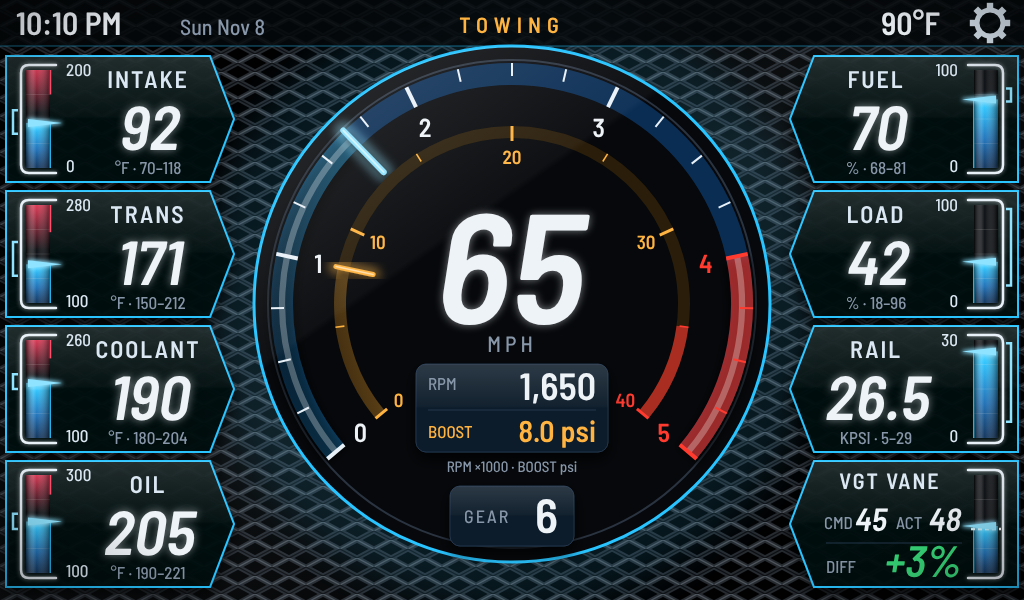
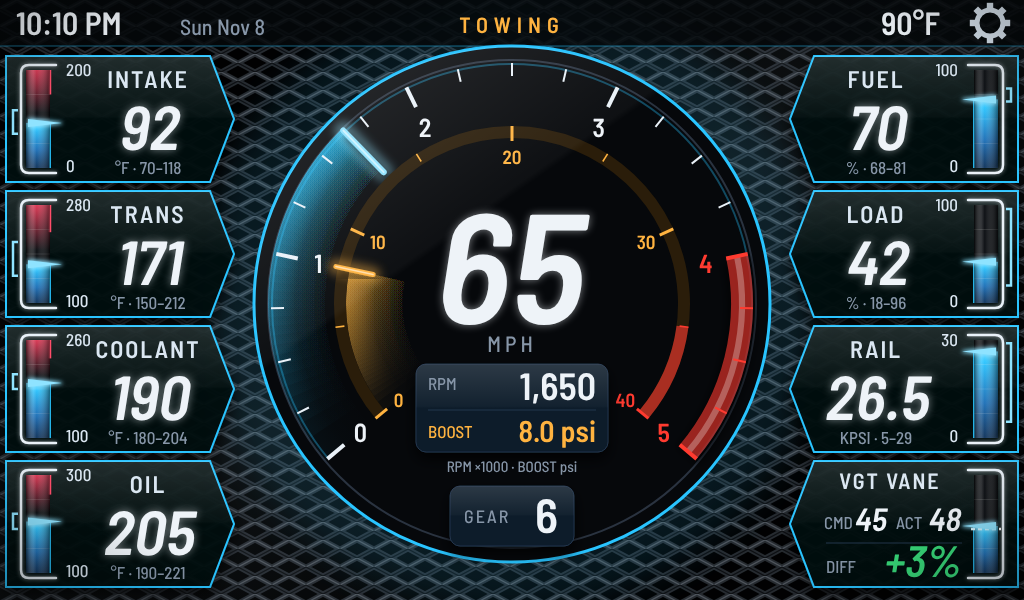
Mockups v2: P3 light trails behind RPM and boost needles, color picker, background setting
Claude-Session: https://claude.ai/code/session_01NB1fkpFcGY28RY4JZ8NWPC

Changed region(s): [[0.25, 0.09, 0.75, 0.78]]

diff --git a/docs/mockups/v2.html b/docs/mockups/v2.html
@@ -47,6 +47,7 @@ s+=`<defs>
 <linearGradient id="cw1" x1="0" y1="0" x2="1" y2="0"><stop offset="0" stop-color="#0b0d11"/><stop offset=".5" stop-color="#262c36"/><stop offset="1" stop-color="#0b0d11"/></linearGradient>
 <linearGradient id="cw2" x1="0" y1="0" x2="0" y2="1"><stop offset="0" stop-color="#090b0e"/><stop offset=".5" stop-color="#1c2129"/><stop offset="1" stop-color="#090b0e"/></linearGradient>
 <linearGradient id="sheen" x1="0" y1="0" x2="1" y2="1"><stop offset=".2" stop-color="#bfe6ff" stop-opacity="0"/><stop offset=".5" stop-color="#bfe6ff" stop-opacity=".10"/><stop offset=".8" stop-color="#bfe6ff" stop-opacity="0"/></linearGradient>
+<filter id="glowU" filterUnits="userSpaceOnUse" x="0" y="0" width="1024" height="600"><feGaussianBlur stdDeviation="5"/></filter>
 <filter id="glow" x="-50%" y="-50%" width="200%" height="200%"><feGaussianBlur stdDeviation="5"/></filter>
 <filter id="glow2" x="-50%" y="-50%" width="200%" height="200%"><feGaussianBlur stdDeviation="2"/></filter>
 <radialGradient id="hub" cx="40%" cy="35%" r="70%"><stop offset="0" stop-color="#9aa2ad"/><stop offset=".5" stop-color="#2b2f35"/><stop offset="1" stop-color="#08090a"/></radialGradient>
@@ -73,7 +74,7 @@ function scale(cx,cy,r,a0,sw,min,max,step,minor,o={}){let out='';const n=Math.ro
     if(maj&&o.lab!==false){const[lx,ly]=P(cx,cy,r-(o.lr||44),a);out+=T(lx,ly+(o.ly||0),o.ls||30,o.fmt?o.fmt(v):v,{c:red?C.red:(o.lc||C.text),db:'central',f:o.lf||'B5'})}}
   return `<g filter="url(#bloom)">${out}</g>`+out}
 function needle(cx,cy,r0,r1,a,col,w){const[x0,y0]=P(cx,cy,r0,a),[x1,y1]=P(cx,cy,r1,a);
-  return `<line x1="${n1(x0)}" y1="${n1(y0)}" x2="${n1(x1)}" y2="${n1(y1)}" stroke="${col}" stroke-width="${w*3}" stroke-linecap="round" opacity=".45" filter="url(#glow)"/>`+
+  return `<line x1="${n1(x0)}" y1="${n1(y0)}" x2="${n1(x1)}" y2="${n1(y1)}" stroke="${col}" stroke-width="${w*3}" stroke-linecap="round" opacity=".45" filter="url(#glowU)"/>`+
          `<line x1="${n1(x0)}" y1="${n1(y0)}" x2="${n1(x1)}" y2="${n1(y1)}" stroke="${col}" stroke-width="${w}" stroke-linecap="round" filter="url(#nshadow)"/>`+`<line x1="${n1(x0)}" y1="${n1(y0)}" x2="${n1(x1)}" y2="${n1(y1)}" stroke="#fff" stroke-opacity=".55" stroke-width="${w*.3}" stroke-linecap="round"/>`}
 function cneedle(cx,cy,r,a,col){const[tx,ty]=P(cx,cy,r,a),[bx1,by1]=P(cx,cy,7,a+90),[bx2,by2]=P(cx,cy,7,a-90),[tl,tly]=P(cx,cy,r*.18,a+180);
   return `<g filter="url(#nshadow)"><polygon points="${n1(tx)},${n1(ty)} ${n1(bx1)},${n1(by1)} ${n1(tl)},${n1(tly)}" fill="${col}"/><polygon points="${n1(tx)},${n1(ty)} ${n1(tl)},${n1(tly)} ${n1(bx2)},${n1(by2)}" fill="${col}"/><polygon points="${n1(tx)},${n1(ty)} ${n1(tl)},${n1(tly)} ${n1(bx2)},${n1(by2)}" fill="#000" fill-opacity=".35"/><line x1="${n1(tx)}" y1="${n1(ty)}" x2="${n1(tl)}" y2="${n1(tly)}" stroke="#fff" stroke-opacity=".45" stroke-width="1.2"/></g>`+
@@ -292,7 +293,10 @@ pages.premium_towing=()=>{const CX=512,CY=304,RD=258;
     orange:['#ff8a1e','#ffc48a','#c4560a','#5a2604','#ffab5c'],red:['#ff3b4f','#ff9aa5','#b0182a','#4d0912','#ff6b7a'],
     purple:['#a66bff','#d6bdff','#6b33c4','#2e1557','#c09bff'],white:['#e8eef5','#ffffff','#8c96a3','#353b43','#f4f8fb']};
   const SECS={amber:'#ffb340',cyan:'#29c4ff',green:'#2fe37a',orange:'#ff8a1e',purple:'#c09bff',white:'#e8eef5'};
-  const ACC=ACCS[q.get('acc')||'cyan'],SEC=SECS[q.get('sec')||'amber'],CY2=ACC[0];
+  const hx=(h,s,l)=>{s/=100;l/=100;const k=n=>(n+h/30)%12,a=s*Math.min(l,1-l),f=n=>l-a*Math.max(-1,Math.min(k(n)-3,9-k(n),1));return '#'+[0,8,4].map(n=>Math.round(f(n)*255).toString(16).padStart(2,'0')).join('')};
+  const fromHue=(h,l=58)=>[hx(h,95,l),hx(h,100,Math.min(l+22,92)),hx(h,85,l-18),hx(h,80,l-40),hx(h,100,l+10)];
+  const pa=q.get('acc')||'cyan',ps=q.get('sec')||'amber';
+  const ACC=/^h\d+/.test(pa)?fromHue(+pa.slice(1)):ACCS[pa],SEC=/^h\d+/.test(ps)?fromHue(+ps.slice(1))[0]:SECS[ps],CY2=ACC[0];
   const BGS={carbon:'url(#carbon)',expanded:'url(#xmetal)',diamond:'url(#dplate)',brushed:'url(#bal)',honeycomb:'url(#honey)',black:'#040506'};
   const bgk=q.get('bg')||'carbon';
   let o=`<rect width="1024" height="600" fill="${BGS[bgk]}"/>`+(bgk=='brushed'?'<rect width="1024" height="600" fill="url(#brushed)"/>':'')+
@@ -307,13 +311,19 @@ pages.premium_towing=()=>{const CX=512,CY=304,RD=258;
    o+=g+`<circle cx="${x}" cy="${y}" r="13" fill="none" stroke="#dbe7f2" stroke-width="5"/>`}
   o+=`<defs><linearGradient id="ofill" x1="0" y1="1" x2="1" y2="0"><stop offset="0" stop-color="${ACC[0]}" stop-opacity=".06"/><stop offset="1" stop-color="${ACC[0]}" stop-opacity=".32"/></linearGradient>
     <linearGradient id="ifill" x1="0" y1="1" x2="1" y2="0"><stop offset="0" stop-color="${SEC}" stop-opacity=".06"/><stop offset="1" stop-color="${SEC}" stop-opacity=".36"/></linearGradient></defs>`;
+  function trail(r0,r1,a0,a1,col,peak,id){let g=`<defs><radialGradient id="${id}" gradientUnits="userSpaceOnUse" cx="${CX}" cy="${CY}" r="${r1}"><stop offset="${(r0/r1).toFixed(3)}" stop-color="${col}" stop-opacity="0"/><stop offset="${((r0+(r1-r0)*.55)/r1).toFixed(3)}" stop-color="${col}" stop-opacity=".35"/><stop offset="1" stop-color="${col}" stop-opacity="1"/></radialGradient></defs>`;
+    const N=40;for(let i=0;i<N;i++){const t0=a0+(a1-a0)*Math.pow(i/N,.7),t1=a1,op=(peak*2.2/N).toFixed(3);
+      const[p0x,p0y]=P(CX,CY,r1,t0),[p1x,p1y]=P(CX,CY,r1,t1),[q1x,q1y]=P(CX,CY,r0,t1),[q0x,q0y]=P(CX,CY,r0,t0);
+      const lg=t1-t0>180?1:0;g+=`<path d="M${n1(p0x)},${n1(p0y)} A${r1},${r1} 0 ${lg} 1 ${n1(p1x)},${n1(p1y)} L${n1(q1x)},${n1(q1y)} A${r0},${r0} 0 ${lg} 0 ${n1(q0x)},${n1(q0y)} Z" fill="url(#${id})" opacity="${op}"/>`}
+    return g}
   // center disc
   o+=`<circle cx="${CX}" cy="${CY}" r="${RD}" fill="#06080b" stroke="${CY2}" stroke-width="3"/><circle cx="${CX}" cy="${CY}" r="${RD-14}" fill="none" stroke="#2a3340" stroke-width="2"/>`;
   const A0=140,SW=260;
+  // light trails behind both needles (drawn on the face, under the scales)
+  o+=trail(182,RD-14,A0,A0+SW*V.rpm/5000,ACC[0],.75,'trO')+trail(104,166,A0,A0+SW*V.boost/40,SEC,.7,'trI');
   // outer scale: RPM with a needle
   const RO=230,ar=v=>A0+SW*v/5;
-  o+=`<path d="${arc(CX,CY,RO,A0,A0+SW)}" stroke="${ACC[3]}" stroke-opacity=".7" stroke-width="22" fill="none"/>`;
-  o+=`<path d="${arc(CX,CY,RO,A0,ar(V.rpm/1000))}" stroke="url(#ofill)" stroke-width="22" fill="none"/>`;
+  o+=`<path d="${arc(CX,CY,RO+10,A0,A0+SW)}" stroke="${ACC[0]}" stroke-opacity=".35" stroke-width="2" fill="none"/>`;
   o+=`<path d="${arc(CX,CY,RO,ar(4),ar(5))}" stroke="${C.red}" stroke-width="22" fill="none" opacity=".6"/>`;
   for(let v=0;v<=5;v+=.25){const maj=v%1==0,[x1,y1]=P(CX,CY,RO+11,ar(v)),[x2,y2]=P(CX,CY,RO-(maj?11:2),ar(v));o+=`<line x1="${n1(x1)}" y1="${n1(y1)}" x2="${n1(x2)}" y2="${n1(y2)}" stroke="${v>=4?C.red:'#e9f1f8'}" stroke-width="${maj?4:2}"/>`}
   for(let v=0;v<=5;v++){const[x,y]=P(CX,CY,RO-32,ar(v));o+=T(x,y,26,v,{db:'central',c:v>=4?C.red:C.text,f:'C6'})}
@@ -321,7 +331,6 @@ pages.premium_towing=()=>{const CX=512,CY=304,RD=258;
   // inner scale: BOOST with its own needle
   const RI=172,ab=v=>A0+SW*v/40;
   o+=`<path d="${arc(CX,CY,RI,A0,A0+SW)}" stroke="#2a1d0a" stroke-width="12" fill="none"/>`;
-  o+=`<path d="${arc(CX,CY,RI,A0,ab(V.boost))}" stroke="url(#ifill)" stroke-width="12" fill="none"/>`;
   o+=`<path d="${arc(CX,CY,RI,ab(35),ab(40))}" stroke="${C.red}" stroke-width="12" fill="none" opacity=".6"/>`;
   for(let v=0;v<=40;v+=5){const maj=v%10==0,[x1,y1]=P(CX,CY,RI+6,ab(v)),[x2,y2]=P(CX,CY,RI-(maj?9:3),ab(v));o+=`<line x1="${n1(x1)}" y1="${n1(y1)}" x2="${n1(x2)}" y2="${n1(y2)}" stroke="${v>=35?C.red:SEC}" stroke-width="${maj?3:1.6}"/>`}
   for(let v=0;v<=40;v+=10){const[x,y]=P(CX,CY,RI-24,ab(v));o+=T(x,y,19,v,{db:'central',c:v>=35?C.red:SEC,f:'C6'})}
@@ -382,6 +391,21 @@ pages.premium_towing=()=>{const CX=512,CY=304,RD=258;
     o+=T(cx,y+32,24,lab,{f:'C6',c:'#dbe7f2',ls:2})+sk(cx,y+94,62,val,{c:hot?C.red:C.text})+T(cx,y+118,17,[u,rng&&rng[3]!=null?rng[3]+'–'+rng[4]:''].filter(Boolean).join('  ·  '),{c:C.dim,f:'C5'});
     if(rng)o+=rbar(bx,y+14,h-28,rng[0],rng[1],rng[2],rng[3],rng[4],val,{left});
 }));
+  if(q.get('colors')){o+=`<rect width="1024" height="600" fill="#000" opacity=".72"/><rect x="72" y="40" width="880" height="520" rx="18" fill="#0b131d" stroke="${CY2}" stroke-width="2"/>`;
+    o+=T(104,90,30,'Colors',{a:'start',f:'C6'});
+    [['Main accent',ACC[0],1],['Second accent',SEC,0]].forEach(([t,c,on],i)=>{const y=120+i*84;o+=`<rect x="104" y="${y}" width="250" height="70" rx="12" fill="${on?'#134a74':'#111c29'}" stroke="${on?CY2:'#22364d'}" stroke-width="${on?3:1.5}"/><circle cx="140" cy="${y+35}" r="18" fill="${c}" stroke="#fff" stroke-width="2"/>`+T(170,y+43,24,t,{a:'start',f:'C6'})});
+    o+=T(104,320,18,'Frames, RPM needle, bars, glow',{a:'start',c:C.dim,f:'C5'})+T(104,344,18,'Second: boost needle and scale',{a:'start',c:C.dim,f:'C5'});
+    o+=T(104,392,18,'Red, amber and green stay fixed:',{a:'start',c:C.dim,f:'C5'})+T(104,416,18,'they mean danger, warning, OK.',{a:'start',c:C.dim,f:'C5'});
+    const hc=[560,300],hr=150;for(let h=0;h<360;h+=5){o+=`<path data-flat="1" d="${arc(hc[0],hc[1],hr,h-90,h-90+5.6)}" stroke="${hx(h,95,58)}" stroke-width="40" fill="none"/>`}
+    const cur=195;{const[x,y]=P(hc[0],hc[1],hr,cur-90);o+=`<circle cx="${n1(x)}" cy="${n1(y)}" r="26" fill="${ACC[0]}" stroke="#fff" stroke-width="5" filter="url(#dshadow)"/>`}
+    o+=`<circle cx="${hc[0]}" cy="${hc[1]}" r="98" fill="${ACC[0]}"/><circle cx="${hc[0]}" cy="${hc[1]}" r="98" fill="url(#glassG)"/>`+T(hc[0],hc[1]+10,28,ACC[0].toUpperCase(),{f:'C6',c:'#000'});
+    o+=T(hc[0],hc[1]+hr+46,18,'Drag around the ring for any color',{c:C.dim,f:'C5'});
+    o+=`<defs><linearGradient id="brt" x1="0" y1="1" x2="0" y2="0"><stop offset="0" stop-color="${hx(cur,90,20)}"/><stop offset=".5" stop-color="${hx(cur,95,55)}"/><stop offset="1" stop-color="${hx(cur,100,88)}"/></linearGradient></defs>`;
+    o+=`<rect x="770" y="152" width="44" height="300" rx="12" fill="url(#brt)" stroke="#22364d" stroke-width="2"/><rect x="760" y="${150+300*.42-8}" width="64" height="16" rx="6" fill="#fff" stroke="#000" stroke-width="2"/>`+T(792,140,18,'Brightness',{c:C.dim,f:'C5'});
+    [195,215,140,30,275,320,0,50].forEach((h,i)=>{const x=846+(i%2)*52,y=150+Math.floor(i/2)*58;o+=`<circle cx="${x+20}" cy="${y+20}" r="22" fill="${h==0?'#e8eef5':hx(h,95,58)}" stroke="${h==195?'#fff':'#22364d'}" stroke-width="${h==195?4:2}"/>`});
+    o+=T(892,402,18,'Quick picks',{c:C.dim,f:'C5'});
+    o+=`<rect x="104" y="476" width="230" height="60" rx="12" fill="#111c29" stroke="#22364d"/>`+T(219,515,24,'Reset to default',{f:'C6',c:C.dim});
+    o+=`<rect x="760" y="476" width="168" height="60" rx="12" fill="${CY2}"/>`+T(844,515,26,'Done',{f:'C6',c:'#000'})}
   if(q.get('pick')){o+=`<rect width="1024" height="600" fill="#000" opacity=".72"/>`;
     o+=`<rect x="92" y="44" width="840" height="512" rx="18" fill="#0b131d" stroke="${CY2}" stroke-width="2"/>`;
     o+=T(124,96,30,'Show in the center',{a:'start',f:'C6'})+T(124,126,20,'Press and hold any reading to change it',{a:'start',c:C.dim,f:'C5'});
@@ -446,7 +470,7 @@ let spill=TH=='classic'?'<rect width="1024" height="600" fill="url(#brushed)"/>'
 GL.forEach(([cx,cy,r])=>spill+=`<circle cx="${cx}" cy="${cy}" r="${(r*1.12).toFixed(0)}" fill="${TH=='classic'?C.green:C.acc}" opacity="${TH=='classic'?.07:.12}" filter="url(#bloomBig)"/>`);
 s=s.replace('<!--SPILL-->',spill)+pg;
 // glass on every dial and window, then a vignette
-if(!q.get('pick'))GL.forEach(([cx,cy,r])=>s+=`<circle cx="${cx}" cy="${cy}" r="${r}" fill="url(#glassG)"/>`);
+if(!q.get('pick')&&!q.get('colors'))GL.forEach(([cx,cy,r])=>s+=`<circle cx="${cx}" cy="${cy}" r="${r}" fill="url(#glassG)"/>`);
 GLR.forEach(([x,y,w,h,r])=>s+=`<rect x="${x}" y="${y}" width="${w}" height="${h}" rx="${r}" fill="url(#glassG)"/>`);
 s+='<rect width="1024" height="600" fill="url(#vign)" pointer-events="none"/>';
 // ?n=1: numbered callouts so feedback can say "P2-4" or "C3-6"

diff --git a/docs/mockups/v2/KEY.md b/docs/mockups/v2/KEY.md
@@ -7,7 +7,7 @@ renders are in `numbered/`.
 |---|---|
 | **P1** Premium Daily | 1 tach that wraps into the top bar · 2 gear dial · 3 center card (boost/trans/MPG) · 4 speedo · 5 odometer · 6 coolant · 7 fuel % and range · 8 clock/date bar |
 | **P2** Premium Sport | 1 big center tach · 2 speed · 3 gear · 4 red-zone glow · 5 coolant bar · 6 trans bar · 7 boost bar · 8 oil bar |
-| **P3** Premium Towing (rev 3) | 1 speed (big, center) · 2 RPM needle on the outer scale with a faint fill · 3 boost needle on the inner scale with a faint fill · 4 RPM digits with boost under them · 5 gear (bottom of the circle) · 6 left panels (intake/trans/coolant/oil) · 7 right panels (fuel/load/rail/VGT) · 8 premium vertical bars: outline frame, red zone fading down, fill fading down from a bright top edge, pointer at now, scale min/max, this drive's min–max bracket (also under the value) · 9 VGT vane: CMD, ACT and DIFF (amber at 5%, red at 10%) · 10 top bar: time, date, page, outside temp, settings |
+| **P3** Premium Towing (rev 3) | 1 speed (big, center) · 2 RPM needle with a light trail (lit wedge on the face from 0 to the needle) · 3 boost needle on the inner scale with its own light trail · 4 RPM digits with boost under them · 5 gear (bottom of the circle) · 6 left panels (intake/trans/coolant/oil) · 7 right panels (fuel/load/rail/VGT) · 8 premium vertical bars: outline frame, red zone fading down, fill fading down from a bright top edge, pointer at now, scale min/max, this drive's min–max bracket (also under the value) · 9 VGT vane: CMD, ACT and DIFF (amber at 5%, red at 10%) · 10 top bar: time, date, page, outside temp, settings |
 | **P4** Premium Economy | 1 open-arc tach · 2 speed · 3 gear · 4 fuel bar · 5 fuel % and range · 6 trip/tank boxes · 7 MPG bar with tank-avg marker · 8 MPG now/trip/last 10 · 9 telltales |
 | **P5** Premium Trend | 1 channel list · 2 live values · 3 chart · 4 tap cursor · 5 min/avg/max · 6 time window buttons |
 | **C1** Classic Daily | 1 digital speed/gear window · 2 sweep speedo · 3 odometer · 4 round tach · 5 temp/trans window · 6 boost/fuel window · 7 clock |
@@ -21,8 +21,8 @@ Every reading on P3 can be swapped: press and hold it to open the picker (`premi
 
 Render with `&bg=` and `&acc=`/`&sec=` (sheets in `options/`).
 
-- Backgrounds: B1 carbon, B2 expanded metal, B3 diamond plate, B4 brushed aluminum, B5 honeycomb, B6 plain black (night).
-- Colors: two picks, a main accent (frames, RPM needle, bar fills, glow) and a second accent (boost needle and scale).
+- Backgrounds (a setting, default B1 carbon): B1 carbon, B2 expanded metal, B3 diamond plate, B4 brushed aluminum, B5 honeycomb, B6 plain black (night).
+- Colors: a color picker (hue ring, brightness, quick picks) for two picks, a main accent (frames, RPM needle, bar fills, glow) and a second accent (boost needle and scale).
   Presets: cyan, green, orange, purple, white for main; amber, cyan, green, orange, purple, white for second.
   Red, amber and green keep their meaning (danger, warning, OK) and don't change. Red as the main accent (K4) is shown
   but not recommended: everything looks like an alarm.
